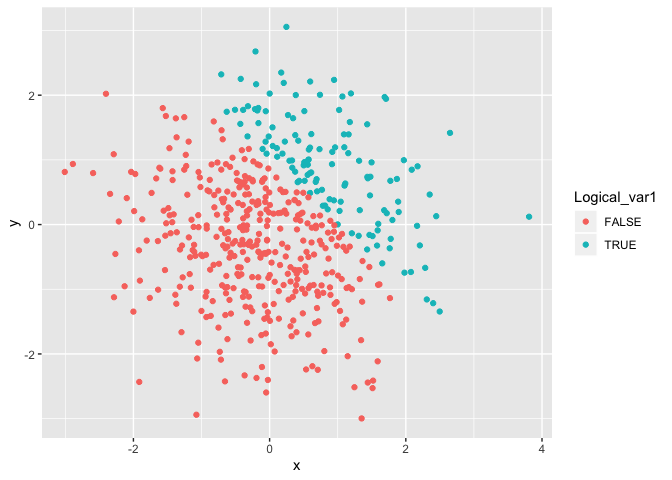
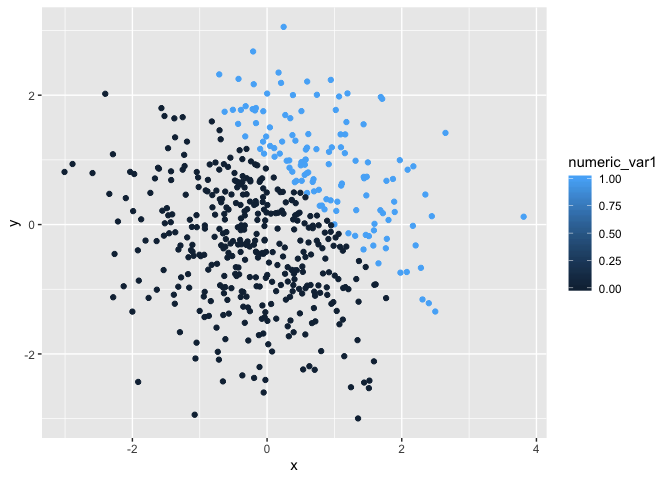
Updated the ggplot and ggsave part.

diff --git a/P8105_HW1_yc384.md b/P8105_HW1_yc384.md
@@ -23,7 +23,7 @@ ect)
 
 ## Problem 1: Understand variable types in R: numeric, character, and factor variables:
 
-### 1\. First code chunk: This chunk Create a data frame comprised of:
+### 1\_1. First code chunk: This chunk Create a data frame comprised of:
 
   - a random sample of size 8 from a standard Normal distribution
   - a logical vector indicating whether elements of the sample are
@@ -39,47 +39,46 @@ knitr::opts_chunk$set(echo = TRUE)
 library(tidyverse)
 ```
 
-    ## ── Attaching packages ─────────────────────────────────────────────────────────── tidyverse 1.2.1 ──
+    ## ── Attaching packages ────────────────────────────────────── tidyverse 1.2.1 ──
 
     ## ✔ ggplot2 3.2.1     ✔ purrr   0.3.2
     ## ✔ tibble  2.1.3     ✔ dplyr   0.8.3
     ## ✔ tidyr   0.8.3     ✔ stringr 1.4.0
     ## ✔ readr   1.3.1     ✔ forcats 0.4.0
 
-    ## ── Conflicts ────────────────────────────────────────────────────────────── tidyverse_conflicts() ──
+    ## ── Conflicts ───────────────────────────────────────── tidyverse_conflicts() ──
     ## ✖ dplyr::filter() masks stats::filter()
     ## ✖ dplyr::lag()    masks stats::lag()
 
 ``` r
-# Create a dataframe 
+## Create a dataframe 
 hw1_df = tibble(
-#a random sample of size 8 from a standard Normal distribution
-norm_samp = rnorm (8, mean = 0, sd = 1),
-# Logic vector: if elements of the random sample are positive
-norm_samp_pos = norm_samp > 0,
-# Character vector of length 8
-vec_char = c("a", "b", "c", "abc", "ad", "ac", "bc", " "),
-# Factor vector of length 8 with 3 differesnt levels
-vec_factor = factor(c("low", "high", "medium", "high", "low", "medium", "high", "low")),
-
+ ## A random sample of size 8 from a standard Normal distribution
+ norm_samp = rnorm (8, mean = 0, sd = 1),
+ ## Logic vector: if elements of the random sample are positive
+ norm_samp_pos = norm_samp > 0,
+ ## Character vector of length 8
+ vec_char = c("a", "b", "c", "abc", "ad", "ac", "bc", " "),
+ ## Factor vector of length 8 with 3 differesnt levels
+ vec_factor = factor(c("low", "high", "medium", "high", "low", "medium", "high","low")),
 )
 
-# Take the mean of each variable
-# Examing the mean of varible norm_samp: 
+## Take the mean of each variable
+## Examing the mean of varible norm_samp: 
 mean(hw1_df$norm_samp)
 ```
 
-    ## [1] -0.04375177
+    ## [1] -0.1570386
 
 ``` r
-# Examing the mean of varible norm_samp_pos: 
+## Examing the mean of varible norm_samp_pos: 
 mean(hw1_df$norm_samp_pos)
 ```
 
     ## [1] 0.5
 
 ``` r
-# Examing the mean of varible var_char: 
+## Examing the mean of varible var_char: 
 mean(hw1_df$vec_char)
 ```
 
@@ -89,7 +88,7 @@ mean(hw1_df$vec_char)
     ## [1] NA
 
 ``` r
-# xaming the mean of varible var_factor: 
+## Examing the mean of varible var_factor: 
 mean(hw1_df$vec_factor)
 ```
 
@@ -100,9 +99,31 @@ mean(hw1_df$vec_factor)
 
   - **From results above, we can see that the ransom normal sample and
     the logic vector had their mean calculated. But the character
-    variable and the factor variable did not have the mean calculated.**
+    variable and the factor variable did not have the mean
+calculated.**
 
-### 2\. Second code chunk:
+### 1\_2. Second code chunk applies as.numeric function to the other types of varaibles(only show code, not output)
+
+``` r
+as.numeric(pull(hw1_df, norm_samp_pos))
+as.numeric(pull(hw1_df, vec_char))
+as.numeric(pull(hw1_df, vec_factor))
+```
+
+  - When apply as.numeric function to the logical variables, it returns
+    0 and 1;
+
+  - When apply as.numeric function to the character variables, it
+    returns NA;
+
+  - When apply as.numeric function to the factor variables, it returns
+    three levels in  
+    numbers according to their alphabet order;
+
+  - Yes. This is helpful to explain why we could not take the mean of a
+    character or a factor variables. They are not numeric variables.
+
+### 1\_3. Third code chunk:
 
   - convert the logical vector to numeric, and multiply the random
     sample by the result
@@ -110,3 +131,93 @@ mean(hw1_df$vec_factor)
     sample by the result
   - convert logical vector to factor & then convert result to numeric &
     multiply the random sample by the result
+
+<!-- end list -->
+
+``` r
+## Create a data frame that converts different types of variable
+hw1_dt = tibble(
+  norm_samp = rnorm (8, mean = 0, sd = 1),
+  
+  ## Convert logical vector to numeric
+  logic_num = as.numeric(pull(hw1_df, norm_samp_pos)),
+  ## multiply converted variable by the random sample
+  logic_num_normsamp = logic_num * norm_samp,
+  
+  ## Covert logical vector to factor
+  logic_factor = as.factor(pull(hw1_df, norm_samp_pos)),
+  ## multiply converted variable by the random sample
+  logic_factor_normsamp = logic_factor * norm_samp,
+  
+  ## convert logical vector to factor & then convert result to numeric
+  logic_factor_num = as.numeric(as.factor(pull(hw1_df, norm_samp_pos))),
+  ## multiply converted variable by the random sample
+  logic_factor_num_normsamp = logic_factor_num * norm_samp
+)
+```
+
+    ## Warning in Ops.factor(logic_factor, norm_samp): '*' not meaningful for
+    ## factors
+
+## Problem 2: Using ggplot to plot different types of variables
+
+### 2\_1 Create data frame: HW1\_2\_df
+
+``` r
+knitr::opts_chunk$set(echo = TRUE)
+
+## set seed to ensure reproducibility
+set.seed(1)
+
+## Create a dataframe 
+HW1_2_df = tibble(
+## A random sample of size 500
+ x = rnorm (500),
+ y = rnorm (500),
+
+ # Logic vector: if x + y > 1
+ Logical_var1 = x + y > 1,
+ # coercing the above logical vector to numeric
+ numeric_var1 = as.numeric(Logical_var1),
+ # coercing the above logical vector to factor
+ factor_var1 = as.factor(Logical_var1),
+)
+```
+
+### 2\_2 Description of Dataset HW1\_2\_df:
+
+  - The dataset: hw2\_df contains two random samples of size 500 and 5
+    variables.
+  - The mean of x is 0.0226441, the median of x is -0.0367783 and
+    standard deviation of x is 1.0119283
+  - the proportion of cases for which x + y \> 1 is: 25.2%.
+
+### 2\_3 Make a scatterplot of y vs x
+
+``` r
+## Scatter plot for logical variable
+ggplot(HW1_2_df, aes(x = Logical_var1, y = y, color=factor_var1)) + geom_point()
+```
+
+![](P8105_HW1_yc384_files/figure-gfm/HW1_2_plots-1.png)<!-- -->
+
+``` r
+## Export the first scatterplot to project directory using ggsave
+ggsave("plot1.jpeg", plot = last_plot())
+```
+
+    ## Saving 7 x 5 in image
+
+``` r
+## Scatter plot for numerical variable, color by factor_var1
+ggplot(HW1_2_df, aes(x = numeric_var1, y = y, color=factor_var1)) + geom_point()
+```
+
+![](P8105_HW1_yc384_files/figure-gfm/HW1_2_plots-2.png)<!-- -->
+
+``` r
+## Scatter plot for factor variable, color by numerical varaible
+ggplot(HW1_2_df, aes(x = factor_var1, y = y, color=numeric_var1)) + geom_point()
+```
+
+![](P8105_HW1_yc384_files/figure-gfm/HW1_2_plots-3.png)<!-- -->

diff --git a/P8105_HW1_yc384_files/P8105_HW1_yc384-Knit-file.md b/P8105_HW1_yc384_files/P8105_HW1_yc384-Knit-file.md
@@ -39,14 +39,14 @@ knitr::opts_chunk$set(echo = TRUE)
 library(tidyverse)
 ```
 
-    ## ── Attaching packages ────────────────────────────────────── tidyverse 1.2.1 ──
+    ## ── Attaching packages ───────────────────────────────────────── tidyverse 1.2.1 ──
 
     ## ✔ ggplot2 3.2.1     ✔ purrr   0.3.2
     ## ✔ tibble  2.1.3     ✔ dplyr   0.8.3
     ## ✔ tidyr   0.8.3     ✔ stringr 1.4.0
     ## ✔ readr   1.3.1     ✔ forcats 0.4.0
 
-    ## ── Conflicts ───────────────────────────────────────── tidyverse_conflicts() ──
+    ## ── Conflicts ──────────────────────────────────────────── tidyverse_conflicts() ──
     ## ✖ dplyr::filter() masks stats::filter()
     ## ✖ dplyr::lag()    masks stats::lag()
 
@@ -69,14 +69,14 @@ hw1_df = tibble(
 mean(hw1_df$norm_samp)
 ```
 
-    ## [1] 0.1833698
+    ## [1] 0.2463512
 
 ``` r
 ## Examing the mean of varible norm_samp_pos: 
 mean(hw1_df$norm_samp_pos)
 ```
 
-    ## [1] 0.625
+    ## [1] 0.75
 
 ``` r
 ## Examing the mean of varible var_char: 
@@ -196,29 +196,20 @@ HW1_2_df = tibble(
 ### 2\_3 Make a scatterplot of y vs x
 
 ``` r
-## Scatter plot for logical variable
-ggplot(HW1_2_df, aes(x = x, y = y, color=Logical_var1)) + geom_point()
+## Scatter plot clolored for logical variable
+first_plot = ggplot(HW1_2_df, aes(x = x, y = y, color=Logical_var1)) + geom_point() 
+## Export the first scatterplot to project directory using ggsave
+ggsave("first_plot.pdf", first_plot, width = 8, height = 5)
+
+## Scatter plot clolored for numerical variable
+ggplot(HW1_2_df, aes(x = x, y = y, color=numeric_var1)) + geom_point()
 ```
 
 ![](P8105_HW1_yc384-Knit-file_files/figure-gfm/HW1_2_plots-1.png)<!-- -->
 
 ``` r
-## Export the first scatterplot to project directory using ggsave
-ggsave("plot1.jpeg", plot = last_plot())
-```
-
-    ## Saving 7 x 5 in image
-
-``` r
-## Scatter plot for numerical variable, color by factor_var1
-ggplot(HW1_2_df, aes(x = x, y = y, color=numeric_var1)) + geom_point()
-```
-
-![](P8105_HW1_yc384-Knit-file_files/figure-gfm/HW1_2_plots-2.png)<!-- -->
-
-``` r
-## Scatter plot for factor variable, color by numerical varaible
+## Scatter plot clolored for factor variable
 ggplot(HW1_2_df, aes(x = x, y = y, color=factor_var1)) + geom_point()
 ```
 
-![](P8105_HW1_yc384-Knit-file_files/figure-gfm/HW1_2_plots-3.png)<!-- -->
+![](P8105_HW1_yc384-Knit-file_files/figure-gfm/HW1_2_plots-2.png)<!-- -->
